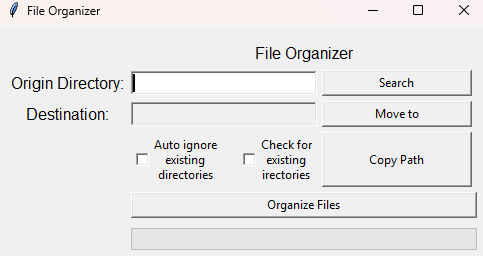
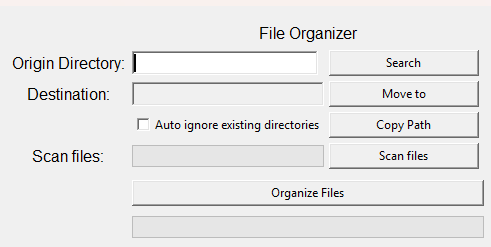
added select all checkbox for selection types of files to transfer // removed the search for existing directories checkbox

diff --git a/file_organizer.py b/file_organizer.py
@@ -4,6 +4,10 @@ from tkinter import messagebox, filedialog, END, IntVar, Checkbutton
 
 
 class FileOrganizer:
+    def __init__(self, root):
+        self.vars_list = []
+        self.select_all_var = IntVar(master=root)
+
     def show_hide_error(self, label, msg, type, color="red"):
         if type == "show":
             if label:
@@ -25,6 +29,17 @@ class FileOrganizer:
             error_label["text"] = ""
             error_label.grid_remove()
 
+    def checkbox_state(self, vars_list):
+        states = []
+        for i, var in enumerate(vars_list):
+            states.append(var.get())
+        return states
+
+    def toggle_checkboxes(self):
+        state = self.select_all_var.get()
+        for var in self.vars_list:
+            var.set(state)
+
     def check_dir_exists(self, dir):
         if os.path.exists(dir):
             override = messagebox.askyesnocancel("Override files", f"Path {dir} already exists, do you want to override it?")
@@ -38,13 +53,6 @@ class FileOrganizer:
             os.makedirs(dir, exist_ok=True)
             return True
 
-    def checkboxes_state(self, var1, var2, dir):
-        if var1 == 1:
-            return True
-
-        if var2 == 1:
-            return self.check_dir_exists(dir)
-
     def scan_files(self, **kwargs):
         origin = kwargs.get("origin", "")
         file_extensions = kwargs.get("file_extensions", "")
@@ -56,6 +64,9 @@ class FileOrganizer:
 
         existing_extensions = [[] for _ in destinies]
 
+        for widget in frame.winfo_children():
+            widget.destroy()
+
         try:
             directory = os.path.expanduser(origin)
             files = os.listdir(directory)
@@ -64,9 +75,6 @@ class FileOrganizer:
 
             for idx, file in enumerate(files):
                 _, ext = os.path.splitext(file)
-
-                for widget in frame.winfo_children():
-                    widget.destroy()
 
                 for i, extensions in enumerate(file_extensions):
                     if ext in extensions:
@@ -82,13 +90,15 @@ class FileOrganizer:
             load_bar["value"] = 0
             frame.grid()
 
-            for i, extension_type in enumerate(existing_extensions):
-                if len(extension_type) != 0:
-                    var = IntVar()
-                    checkbox = Checkbutton(frame, text=destinies[i], variable=var)
-                    checkbox.grid(column=i // 2, row=i % 2, sticky="w")
+            self.vars_list = []
+            for i, _ in enumerate(destinies):
+                var = IntVar(value=0)
+                if existing_extensions[i]:
+                    Checkbutton(frame, text=destinies[i], variable=var).grid(column=i // 2, row=i % 2, sticky="w")
+                self.vars_list.append(var)
 
-            print(directory, existing_extensions, sep='\n\n')
+            select_all_checkbox = Checkbutton(frame, text="Select All", variable=self.select_all_var, command=lambda : self.toggle_checkboxes())
+            select_all_checkbox.grid(column=0, row=len(self.vars_list)+1, columnspan=4, sticky="we")
 
         except FileNotFoundError:
             self.show_hide_error(error_label, "Diretory not found or non-existent", "show")
@@ -96,7 +106,7 @@ class FileOrganizer:
             for widget in frame.winfo_children():
                 widget.destroy()
 
-    def organize_files(self, origin, destiny, root, progress, var1, var2, **kwargs):
+    def organize_files(self, origin, destiny, root, progress, var1, **kwargs):
         self.show_hide_error(kwargs.get("origin_error"), "", "hide")
         self.show_hide_error(kwargs.get("destiny_error"), "", "hide")
 
@@ -121,14 +131,25 @@ class FileOrganizer:
                 return
 
             valid_dirs = {}
-            for destiny_name in destinies:
+            for i, destiny_name in enumerate(destinies):
                 final = os.path.join(destiny, destiny_name)
-                state = self.checkboxes_state(var1.get(), var2.get(), final)
+                try:
+                    if self.vars_list[i].get() == 1:
+                        if var1.get() == 1:
+                            os.makedirs(final, exist_ok=True)
+                            state = True
+                        else:
+                            state = self.check_dir_exists(final)
+                        valid_dirs[destiny_name] = True
+                    else:
+                        valid_dirs[destiny_name] = False
 
-                if state:
-                    valid_dirs[destiny_name] = True
-                else:
-                    valid_dirs[destiny_name] = False
+                except IndexError:
+                    if var1.get() == 1:
+                        os.makedirs(final, exist_ok=True)
+                        state = True
+                    else:
+                        state = self.check_dir_exists(final)
 
             for i, file in enumerate(files, start=1):
                 path = os.path.join(directory, file)
@@ -149,8 +170,9 @@ class FileOrganizer:
             self.show_hide_error(kwargs.get("origin_error"), "Diretory not found or non-existent", "show")
             return
 
-        error_files = "\n".join(no_permission_files)
-        messagebox.showwarning("PermissionError", f"No permission to copy the following files: {error_files}")
+        except PermissionError:
+            error_files = "\n".join(no_permission_files)
+            messagebox.showwarning("PermissionError", f"No permission to copy the following files: {error_files}")
         time.sleep(3)
         progress["value"] = 0
         messagebox.showinfo("Sucess", "Transfer succesfully completed.")

diff --git a/main.py b/main.py
@@ -3,8 +3,6 @@ from tkinter import Button, Label, Entry, Tk, Frame, Checkbutton, IntVar
 from tkinter.ttk import Progressbar
 from file_organizer import FileOrganizer
 
-app = FileOrganizer()
-
 root = Tk()
 root.title("File Organizer")
 root.update_idletasks()
@@ -13,8 +11,11 @@ root.protocol("WM_DELETE_WINDOW", root.destroy)
 root.grid_rowconfigure(0, weight=1)
 root.grid_columnconfigure(0, weight=1)
 
+app = FileOrganizer(root)
+
 var1 = IntVar()
 var2 = IntVar()
+var3 = IntVar()
 
 # Frames
 content = Frame(root, bd=10)
@@ -82,7 +83,7 @@ search_origin_dir_btn.grid(column=2, row=1, padx=5, sticky="we")
 move_to_dir_btn = Button(content, text="Move to", command=lambda: app.open_file_dialog(label=moving_to_label))
 move_to_dir_btn.grid(column=2, row=3, pady=5, padx=5, sticky="we")
 
-organize_button = Button(content, text="Organize Files", command=lambda: app.organize_files(input_dir.get(), moving_to_label.get(), root, progress_bar, var1, var2, origin_error=origin_dir_error_label, destiny_error=destiny_dir_error_label))
+organize_button = Button(content, text="Organize Files", command=lambda: app.organize_files(input_dir.get(), moving_to_label.get(), root, progress_bar, origin_error=origin_dir_error_label, destiny_error=destiny_dir_error_label, var1=var1))
 organize_button.grid(column=1, row=11, columnspan=2, pady=5, sticky="we")
 
 copy_path_button = Button(content, text="Copy Path", width=20, command=lambda: app.copy_path(moving_to_label.get(), nothing_to_copy_error))
@@ -102,11 +103,11 @@ scan_files_button.grid(column=2, row=7, sticky="ns", padx=5, pady=5)
 
 # Checkboxes
 
-check_existing_files = Checkbutton(content, text="Check for\nexisting\nirectories", variable=var2)
-check_existing_files.grid(column=1, row=5, sticky="e")
+# check_existing_files = Checkbutton(content, text="Check for\nexisting\nirectories", variable=var2)
+# check_existing_files.grid(column=1, row=5, sticky="e")
 
-ignore_checkbox = Checkbutton(content, text="Auto ignore\nexisting\ndirectories", variable=var1)
-ignore_checkbox.grid(column=1, row=5, sticky="w")
+ignore_checkbox = Checkbutton(content, text="Auto ignore existing directories", variable=var1)
+ignore_checkbox.grid(column=1, row=5, rowspan=2, sticky="w")
 
 if __name__ == '__main__':
     root.mainloop()

diff --git a/README.md b/README.md
@@ -74,7 +74,7 @@ Just like in the "Origin Directory" area, you can choose the destination directo
 
 ### Ignoring existing files
 
-In this area we have 2 checkboxes, the first will automatically ignore existing files and folders in your destination path, the second will show a message that says which folders already exist and asks whether or not the user wants to overwrite them.
+Clicking this will automatically ignore existing files and folders in your destination path
 
 ![Ignore files Screenshot](assets/ignore_img.png)
 
@@ -110,5 +110,3 @@ Finally, you can click the "Organize Files" button, which will locate the files 
 ### Note: the application may crash at times after clicking "Organize Files," so I recommend not clicking on the window until the transfer is complete.
 
 ---
-
-Possible improvement: let the user select which types of files to organize using checkboxes
